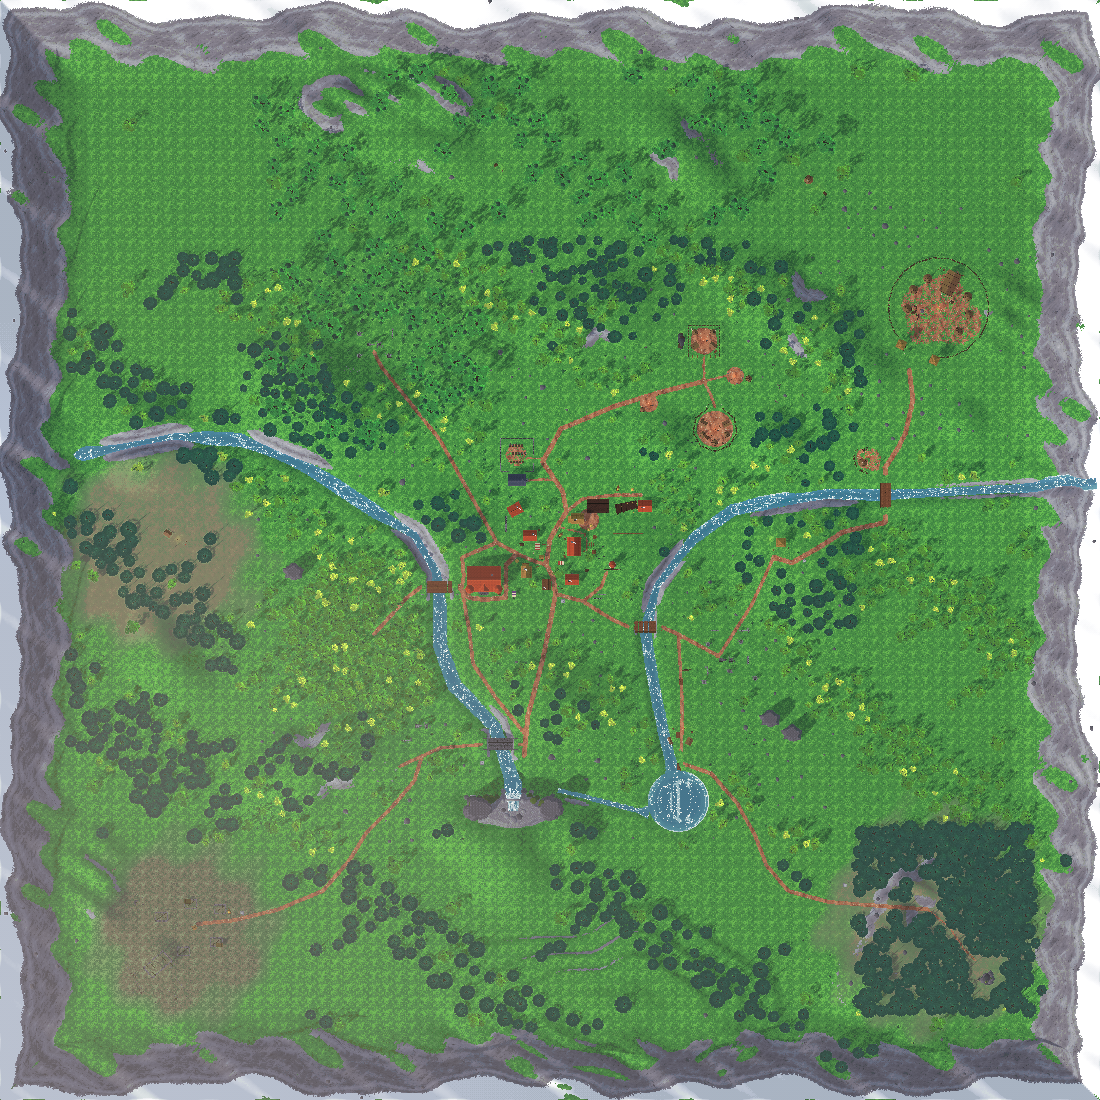
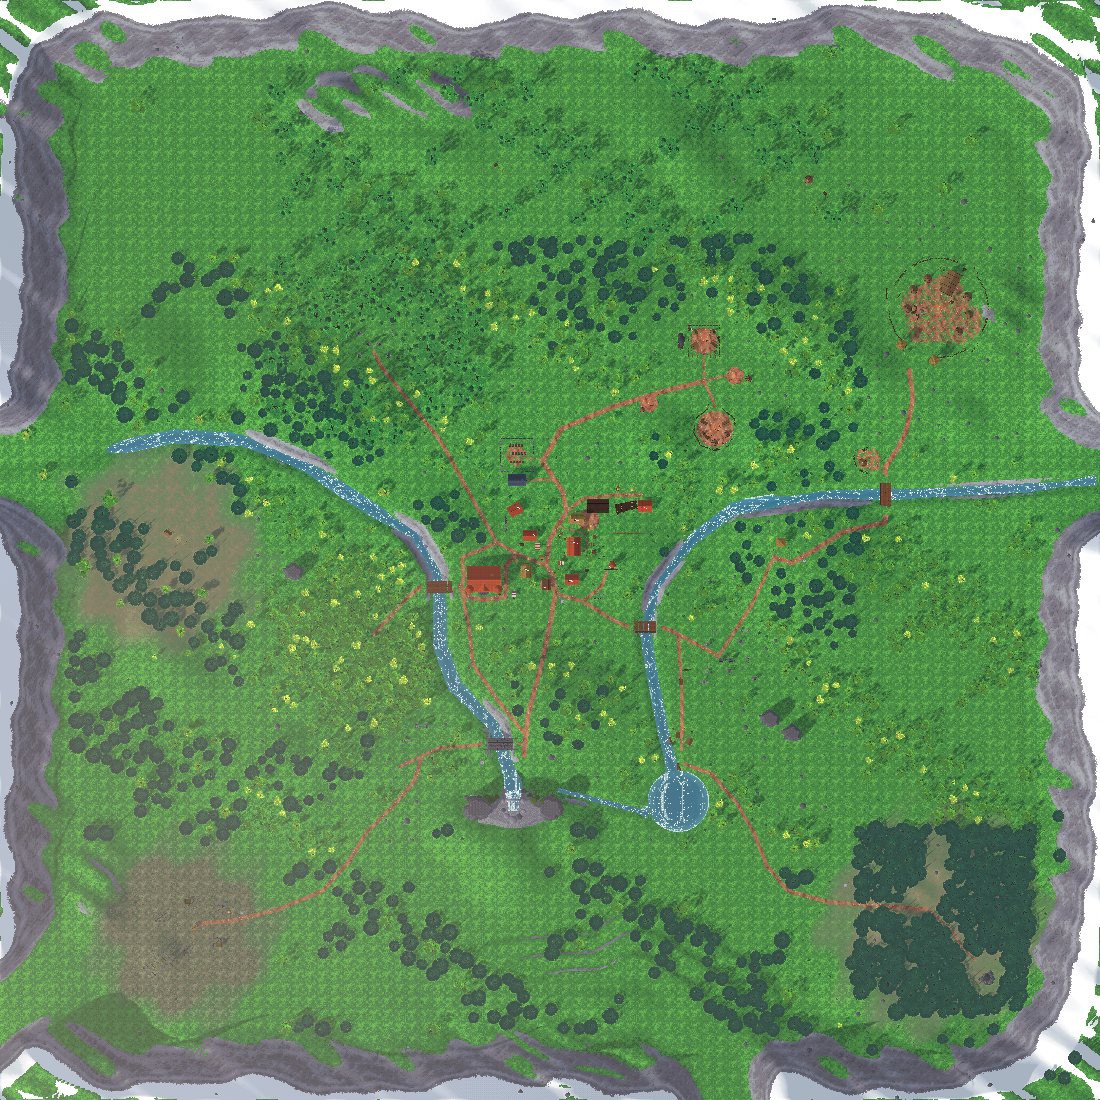
Gentler hills, a wandering mountain rim with foothills, and four passes out of the valley
Steep cone hills are widened and lowered to about 20 degrees, the hill the
Silverbrook ran through is moved, the zone's square wall has rounded corners
and bays, and passes open towards Thornwood, Ironjaw Highlands, Mirror Coast
and Moonfell Downs. Audit of the whole zone in design/meadow-valley-rework.md.

diff --git a/shared-core/Zone.cs b/shared-core/Zone.cs
@@ -123,7 +123,14 @@ public sealed class Zone
         PropData[] Props, ScatterData[] Scatter, EnemySpawnData[]? Enemies, RegionData[]? Regions,
         RiverData[]? Rivers = null, RectData[]? Platforms = null, RectData[]? Walls = null, PortalData[]? Portals = null,
         NpcData[]? Npcs = null, float[]? Trial = null, float[]? Waterfall = null, float[][]? Clearings = null, LakeData[]? Lakes = null,
-        float[][]? Yards = null, RidgeData[]? Ridges = null, GroundData[]? Grounds = null);
+        float[][]? Yards = null, RidgeData[]? Ridges = null, GroundData[]? Grounds = null, PassData[]? Passes = null);
+
+    /// <summary>
+    /// A pass through the mountains round the zone, towards a neighbouring region: the wall opens along the
+    /// line from the middle of the zone through this point, <c>Width</c> metres across, and the ground climbs
+    /// only <c>Floor</c> metres up to the border instead of the full wall. <c>To</c> names the region beyond.
+    /// </summary>
+    private sealed record PassData(float X, float Z, float Width = 44f, float Floor = 9f, string? To = null);
 
     /// <summary>
     /// Models a walker passes through or over: plants, flat things, and the bridges, piers and
@@ -584,16 +591,74 @@ public sealed class Zone
             }
         }
 
-        // Mountains close the zone, so there is no visible end of the world.
-        var edge = MathF.Max(MathF.Abs(x), MathF.Abs(z)) / (data.Size / 2);
-        if (edge > 0.84f)
+        return height + Rim(data, x, z) + Bumps(data.Seed, x, z);
+    }
+
+    /// <summary>Where the mountain wall starts, as a share of the way from the middle to the border.</summary>
+    private const float RimStart = 0.84f;
+
+    /// <summary>Where the foothills before the wall start, and how high they swell.</summary>
+    private const float RimFoot = 0.74f;
+
+    private const float FoothillHeight = 3.5f;
+
+    /// <summary>
+    /// The mountains that close the zone, so there is no visible end of the world. Their foot wanders in
+    /// and out and rounds the corners instead of drawing a square, low foothills lead up to it, and at
+    /// each pass the wall opens into a saddle a road can climb.
+    /// </summary>
+    private static float Rim(ZoneData data, float x, float z)
+    {
+        var half = data.Size / 2;
+        var ax = MathF.Abs(x) / half;
+        var az = MathF.Abs(z) / half;
+        // Rounded corners: a superellipse lies inside the square everywhere but on the axes.
+        var round = MathF.Pow(MathF.Pow(ax, 10f) + MathF.Pow(az, 10f), 0.1f);
+        var angle = MathF.Atan2(z, x);
+        // The foot of the wall only ever moves outwards from the old square, so nothing built stands in it.
+        var bays = 0.5f + 0.27f * MathF.Sin(3f * angle + 0.7f) + 0.15f * MathF.Sin(7f * angle - 1.3f) + 0.08f * MathF.Sin(13f * angle + 2.1f);
+        var edge = MathF.Min(round, 1f) - 0.035f * Math.Clamp(bays, 0f, 1f) * (1f - MathF.Min(round, 1f)) / (1f - RimStart);
+        edge = MathF.Max(edge, MathF.Max(ax, az) - 0.035f);
+        if (edge <= RimFoot)
         {
-            var rise = (edge - 0.84f) / 0.16f;
-            var ridges = MathF.Sin(x * 0.11f) * MathF.Cos(z * 0.13f) + MathF.Sin(x * 0.043f + z * 0.031f) * 1.6f + MathF.Sin(z * 0.27f - x * 0.19f) * 0.35f;
-            height += rise * rise * 50f + ridges * 6f * rise;
+            return 0f;
         }
 
-        return height + Bumps(data.Seed, x, z);
+        // Foothills: a gentle swell before the wall, so the valley floor does not meet it in a crease.
+        var foot = Math.Clamp((edge - RimFoot) / (RimStart - RimFoot), 0f, 1f);
+        var swell = 0.55f + 0.45f * MathF.Sin(x * 0.047f + z * 0.019f) * MathF.Cos(z * 0.041f - x * 0.023f);
+        var height = FoothillHeight * foot * foot * (3f - 2f * foot) * swell;
+        if (edge <= RimStart)
+        {
+            return height;
+        }
+
+        var rise = (edge - RimStart) / (1f - RimStart);
+        var ridges = MathF.Sin(x * 0.11f) * MathF.Cos(z * 0.13f) + MathF.Sin(x * 0.043f + z * 0.031f) * 1.6f + MathF.Sin(z * 0.27f - x * 0.19f) * 0.35f;
+        var wall = rise * rise * 50f + ridges * 6f * rise;
+        var open = 0f;
+        var floor = 0f;
+        foreach (var pass in data.Passes ?? Array.Empty<PassData>())
+        {
+            var length = MathF.Sqrt(pass.X * pass.X + pass.Z * pass.Z);
+            var along = (x * pass.X + z * pass.Z) / length;
+            if (along <= 0f)
+            {
+                continue;
+            }
+
+            var across = MathF.Abs(x * pass.Z - z * pass.X) / length;
+            // Level across the middle half of the pass, then shoulders climbing to the wall.
+            var gate = 1f - Math.Clamp((across - pass.Width * 0.25f) / (pass.Width * 0.5f), 0f, 1f);
+            gate = gate * gate * (3f - 2f * gate);
+            if (gate > open)
+            {
+                open = gate;
+                floor = pass.Floor;
+            }
+        }
+
+        return height + wall * (1f - open) + floor * rise * open;
     }
 
     private static float PolylineDistance(float[][] points, float x, float z) => NearestOnPolyline(points, x, z).Distance;

diff --git a/design/meadow-valley-rework.md b/design/meadow-valley-rework.md
@@ -62,3 +62,56 @@ Každá část končí commitem, snímky skutečné cesty hráče a seznamem, co
   (7 až 10). Interiéry na plošinách mimo mapu jako Guilda, vchody jako portály.
 
 Pak: technika přechodů mezi zónami, waystones, a první nový region Thornwood.
+
+---
+
+## Kontrola celé zóny 2026-11-11 (zadání autora: zkontrolovat a vylepšit všechno)
+
+Podklad: kompletní studio (svět, lidé, monstra, modely), mapa sklonů z terénní funkce, výpis všech
+spawnů. Co se nekontrolovalo, je uvedené na konci.
+
+### Nálezy
+
+1. **Terén.** 16 % plochy mělo sklon nad 18°, 7 % nad 26°: čtrnáct osamělých strmých kuželů na
+   rovné desce (profil kopce dává největší sklon 1,43 × výška / poloměr, u většiny přes 30°).
+   Silverbrook tekl přímo skrz kopec u západního okraje. Okraj zóny byla čtvercová zeď bez sedel.
+2. **Přechody.** Žádná cesta nevedla k okraji, žádné sedlo neexistovalo.
+3. **Hlavní postava.** Vlasy jsou čepice s rovnou vodorovnou linií nad čelem. „Tidy" má z boku
+   vyčnívající hřeben, „Swept back" věnec kolem hlavy, „Shaved" vypadá jako helma, „Wild" je zezadu
+   shluk střepů. Jizvy jsou tmavé šmouhy, čtou se jako špína. Tunika je plochá šedá plocha.
+4. **Monstra.** Modely goblinů, orků, vlků a vlkodlaků obstojí. Slabina je šířka: pět rodin na celou
+   zónu, Emerald Jungle, Stone Circle, Silver Falls a jezero nemají vlastní monstrum. Úrovně: slimové
+   1 až 3, goblini 3 až 7, vlci 5 až 10, orkové 9 až 13, vlkodlaci 12 až 15.
+5. **Stavby.** Tábory byly uzavřené ohrady (opraveno). Břehy pod mosty jsou šedé strmé plochy.
+   Hory na okraji jsou hladké bílé boule bez skal. Domy zblízka proti standardu 8.4 zatím neprojité.
+6. **Rychlé cestování.** Pět waystonů (Hearthmere, East Watch, Silver Falls, Greyfang, Moonfell).
+   Severovýchod (Goblin Hollow, Ironjaw) a západ nemají žádný.
+
+### Hotovo 2026-11-11
+
+- Tábory goblinů a orků: palisáda v obloucích s průlomy místo uzavřeného kruhu.
+- Kopce: strmé kopce rozšířené a snížené (výška nejvýš 0,26 poloměru, tedy sklon kolem 20°), dva
+  vnitřní hřebeny (Greyfang, Old Ruins) snížené, kopec posunutý z koryta Silverbrooku. Tři skály
+  u Silver Falls zůstaly strmé záměrně.
+- Okraj (`Zone.Rim`): zaoblené rohy, pata hor se vlní, před ní předhůří do 3,5 m.
+- Sedla (`passes` v zóně): západ (Thornwood, koryto Silverbrooku), východ (Ironjaw Highlands, koryto
+  Ironwash), jih (Mirror Coast), jihozápad (Moonfell Downs). Záběry `pass_*`, `rim_*`, `hills_*`.
+
+### Pořadí dalších částí (doporučení)
+
+1. **Sedla dotáhnout:** cesty k nim (King's Road na západ a východ, Mirror Way, Moonfell Path),
+   rozcestníky se jménem kraje, zával nebo závora, dokud sousední zóna není, a spoušť přechodu.
+2. **Hlavní postava:** deset účesů znovu v Blenderu (pramínky přes linii čela, objem vzadu), jizvy
+   jako tenká světlá čára s tmavým okrajem, tunika se švy a páskem. Záběry `creator`.
+3. **Hory na okraji:** skalní stěny a římsy místo hladkých boulí, sníh jen na vrcholech.
+4. **Waystony:** pravidlo jeden u každého sídla, vchodu do dungeonu a sedla. Doplnit Goblin Hollow
+   (rozcestí 84, −92), West Gate a South Pass; celkem osm.
+5. **Nová místa** podle `world-plan.md` 8.5: vypálený statek u západního sedla, zborcený most na
+   Silverbrooku, opuštěný tábor lovců u Greyfangu, poutní kaplička u jižního sedla.
+6. **Monstra podle biomů** (návrh ke schválení): džungle, kamenný kruh, jezero, ruiny.
+7. **Vegetace a domy zblízka**, břehy pod mosty.
+
+### Nekontrolováno
+
+Animace a zvuky monster, každý dům zblízka, hustota vegetace po biomech, chování monster v boji
+u nových průlomů, hra na novém terénu (jen testy a studio, žádný živý průchod).

diff --git a/CLAUDE.md b/CLAUDE.md
@@ -296,6 +296,11 @@ Rules:
   into walkable passes), and beyond them lie Greyfang Forest (wolves, south-east), Moonfell (south-west) and the
   Ironjaw Warcamp (north-east). `grounds` paint forest floor, blight or trampled earth on terrain and grass. Props for
   these lands come from `asset-pipeline/lands.py`. The terrain is drawn in 60 m chunks so off-screen ground is culled.
+  The mountains round the zone are `Zone.Rim`: rounded corners, a foot that wanders, low foothills before it, and
+  `passes` (a point on the border, `width`, `floor` metres climbed to the border, `to` the region beyond) where the
+  wall opens into a saddle. Four passes: west (Thornwood), east (Ironjaw Highlands), south (Mirror Coast) and
+  south-west (Moonfell Downs). Keep a hill's height at or under 0.26 of its radius (about 20 degrees at its steepest);
+  the three crags at Silver Falls are steep on purpose. The audit and what comes next: `design/meadow-valley-rework.md`.
 - Blender: `D:\Program\Blender Foundation\Blender 5.2\blender.exe -b --factory-startup -P <script>`.
 - Play: `powershell -ExecutionPolicy Bypass -File scripts/play.ps1` opens the main menu (`MainMenu.cs`, scene
   `menu.tscn`, the project's main scene): Continue (newest save), New Game (a named slot, `SaveFile.SlotFor`), Load
